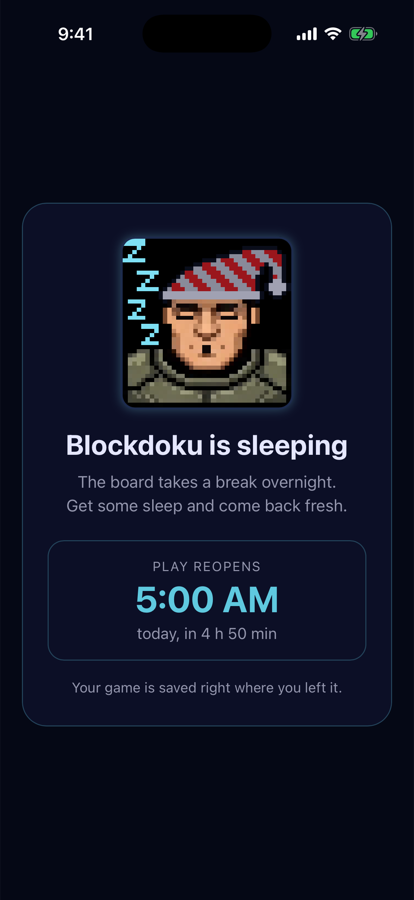
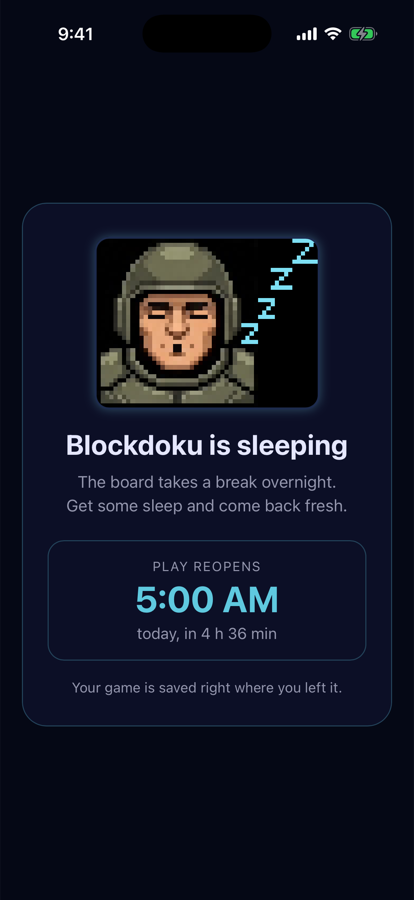
Play limit: simple sleeping face (helmet, eyes closed, ZZZZ), no nightcap

Changed region(s): [[0.2029, 0.2489, 0.7826, 0.4667]]

diff --git a/public/styles.css b/public/styles.css
@@ -1562,9 +1562,9 @@ body.dev-mode {
     background: var(--lim-card);
     border: 1px solid var(--lim-line);
 }
-/* The game's guy asleep in a nightcap with ZZZZ (Matt, 2026-11-23): faces-rest.png, one frame. */
+/* The game's guy asleep, eyes closed, ZZZZ to the right (Matt, 2026-11-23): faces-rest.png, 263x202. */
 .limit-icon {
-    width: 168px;
+    width: 219px;
     height: 168px;
     margin: 0 auto 18px;
     border-radius: 14px;

diff --git a/scripts/faces/make_rest.py b/scripts/faces/make_rest.py
@@ -1,4 +1,5 @@
-# Makes public/assets/faces-rest.png: the game's guy asleep in an old-school striped nightcap, with Zs.
+# Makes public/assets/faces-rest.png: the game's guy asleep (eyes closed, small open mouth),
+# helmet on, ZZZZ rising on the right. No nightcap (Matt, 2026-11-24: the cap looked out of place).
 # Built from frame 0 of faces.jpg. Run from the repo root:
 #   uv run --with pillow --with numpy python scripts/faces/make_rest.py
 import os, sys
@@ -7,64 +8,29 @@ from grid import *
 
 base = grid(0)
 skin = base[19, 13].copy(); shade = base[21, 10].copy(); dark = base[15, 13].copy()
-bg = np.array([0, 0, 0], np.uint8)
-# Colours from the app's own palette (styles.css / theme.ts)
-# Cap: red (Matt: "use red instead of blue"), kept dim ("cap is too bright"). The red is the
-# game's own panic-face red; stripes alternate it with the dimmed text colour.
-blue = np.array([0x9a, 0x16, 0x1c], np.uint8)   # panic-face red (faces.jpg frame 4)
-white = (np.array([0xe5, 0xe7, 0xff]) * 0.6).astype(np.uint8)
-fluff = (np.array([0xe5, 0xe7, 0xff]) * 0.7).astype(np.uint8)  # --text-color, dimmed
-edge = np.array([0x0a, 0x0d, 0x1a], np.uint8)   # theme gridLines
-zc = np.array([0x7e, 0xe0, 0xf4], np.uint8)     # accent
+zc = np.array([0x7e, 0xe0, 0xf4], np.uint8)  # accent
 
 s = base.copy()
-# 1. Helmet off: clear the dome and the side guards down to the collar.
-for y in range(0, 26):
-    for x in range(38):
-        if y < 13 or x <= 10 or x >= 29:
-            s[y, x] = bg
-# Ears and a bit of hair at the temples
-for y in range(16, 20):
-    s[y, 9] = shade; s[y, 10] = skin; s[y, 29] = skin; s[y, 30] = shade
-for y in (14, 15):
-    s[y, 10] = dark; s[y, 29] = dark
-# 2. Eyes closed, small open mouth
+# Eyes closed
 for x in list(range(12, 16)) + list(range(22, 26)):
     s[17, x] = skin; s[18, x] = dark
-s[17, 12] = shade; s[17, 25] = shade
+s[17, 12] = shade; s[17, 22] = shade
+# Small open mouth
 for x in range(16, 22): s[25, x] = skin
 for y, x in ((25, 18), (25, 19), (26, 18), (26, 19)): s[y, x] = dark
-# 3. Nightcap: cone over the head leaning right, tip flopping down to a pompom.
-cone = {11: (10, 29), 10: (11, 29), 9: (12, 29), 8: (13, 29), 7: (14, 30), 6: (16, 30), 5: (18, 31),
-        4: (21, 32), 3: (24, 33), 2: (27, 34)}
-tip = {3: (34, 35), 4: (33, 35), 5: (33, 35), 6: (34, 35), 7: (34, 35), 8: (34, 35)}
-cap = set()
-for y, (a, b) in list(cone.items()) + list(tip.items()):
-    for x in range(a, b + 1): cap.add((y, x))
-for y, x in cap:
-    s[y, x] = blue if ((x - y) // 3) % 2 == 0 else white
-# Brim: a fluffy white band across the forehead
-brim = {(y, x) for y in (12, 13) for x in range(9, 31)}
-for y, x in brim: s[y, x] = fluff
-# Pompom
-pom = {(9, 34), (9, 35), (10, 33), (10, 34), (10, 35), (10, 36), (11, 33), (11, 34), (11, 35), (11, 36), (12, 34), (12, 35)}
-for y, x in pom: s[y, x] = fluff
-# Outline everything new so it reads as pixel art
-shape = cap | brim | pom
-for y, x in list(shape):
-    for dy, dx in ((1, 0), (-1, 0), (0, 1), (0, -1)):
-        ny, nx = y + dy, x + dx
-        if 0 <= ny < s.shape[0] and 0 <= nx < s.shape[1] and (ny, nx) not in shape and (s[ny, nx] == bg).all():
-            s[ny, nx] = edge
-# 4. ZZZZ rising up-left
+# Widen the picture with dark space on the right, then ZZZZ rising up and to the right
+s = np.concatenate([s, np.zeros((s.shape[0], 14, 3), np.uint8)], axis=1)
+Z3 = ["###", ".#.", "###"]
+Z4 = ["####", "..#.", ".#..", "####"]
+Z45 = ["####", "...#", "..#.", ".#..", "####"]
 Z5 = ["#####", "...#.", "..#..", ".#...", "#####"]
-Z4 = ["####", "...#", "..#.", ".#..", "####"]
-for pat, (oy, ox) in ((Z4, (20, 4)), (Z4, (14, 1)), (Z5, (7, 3)), (Z5, (0, 0))):
+Z6 = ["######", "....#.", "...#..", "..#...", ".#....", "######"]
+for pat, (oy, ox) in ((Z45, (20, 34)), (Z45, (14, 38)), (Z5, (7, 41)), (Z6, (0, 46))):
     for yy, row in enumerate(pat):
         for xx, c in enumerate(row):
             if c == "#": s[oy + yy, ox + xx] = zc
 
-frame = render(s)
-Image.fromarray(frame).save("public/assets/faces-rest.png")
+H, W, _ = s.shape  # scale back up the way grid() sampled it (5.05 px per art pixel)
+Image.fromarray(s).resize((round(W * CS), round(H * CS)), Image.NEAREST).save("public/assets/faces-rest.png")
 os.makedirs("tmp", exist_ok=True)
 Image.fromarray(s).resize((s.shape[1] * 12, s.shape[0] * 12), Image.NEAREST).save("tmp/rest_x12.png")

diff --git a/AG_CONTEXT.md b/AG_CONTEXT.md
@@ -61,7 +61,7 @@
 - `src/playLimit.ts`: 2 h of play a day + locked midnight–5 AM (device local time), **on for everyone by default** (Matt: "let's make these global limits"); Settings → "Daily play limit" can switch it off per device (with a confirm).
 - Counts only time on screen, not paused, not game over; gaps over 2 s (sleep, background) aren't counted. The play day and the allowance reset at the cutoff end (5 AM), not midnight.
 - **Never interrupts a game** (Matt): if the lock comes due mid-run or on the game-over screen, a toast says it's the last game; the lock lands when the next game starts (`restart()`) or on app launch.
-- Lock screen `#limit-overlay` (outside `#app`, fixed, z 1000): the guy asleep in a red striped nightcap with ZZZZ (`public/assets/faces-rest.png`, drawn by `scripts/faces/make_rest.py` from faces.jpg frame 0), reopen time + countdown, light/dark via `prefers-color-scheme`. Heads-up toast N min before. First check runs after the constructor (`setTimeout`): running it inline crashed launch during the night lock.
+- Lock screen `#limit-overlay` (outside `#app`, fixed, z 1000): the guy asleep in his helmet, eyes closed, ZZZZ rising to the right (no cap: Matt, 2026-11-24) (`public/assets/faces-rest.png`, drawn by `scripts/faces/make_rest.py` from faces.jpg frame 0), reopen time + countdown, light/dark via `prefers-color-scheme`. Heads-up toast N min before. First check runs after the constructor (`setTimeout`): running it inline crashed launch during the night lock.
 - End-to-end check: `scripts/limit-e2e.ts` (headless Chrome via CDP).
 - Knobs: `limit.*` in tweaks.json. Test builds: `VITE_LIMIT_TEST="daily=25,warn=10"` or `"cutIn=20,cutFor=60"` (seconds) shortens everything. Unit tests: `bun x vitest run tests/playLimit.test.ts`.
 - Changing the device clock gets around it; not handled.
